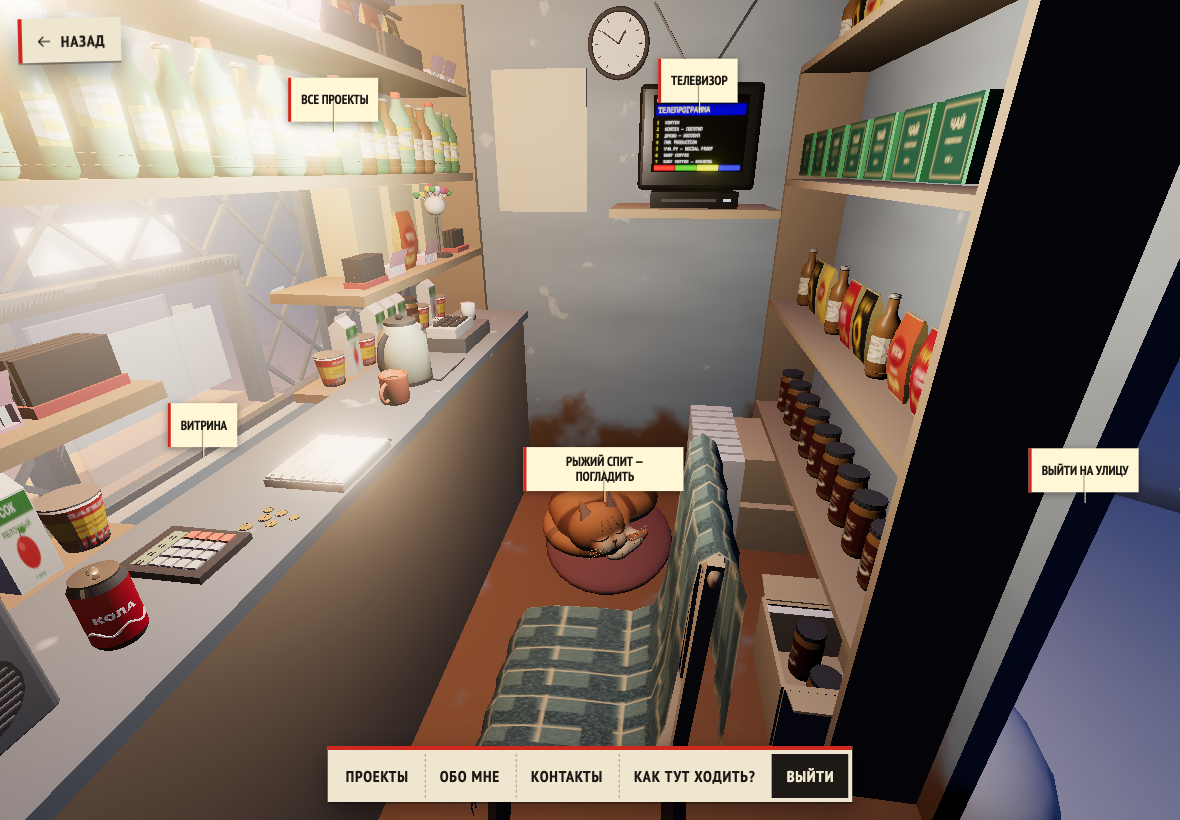
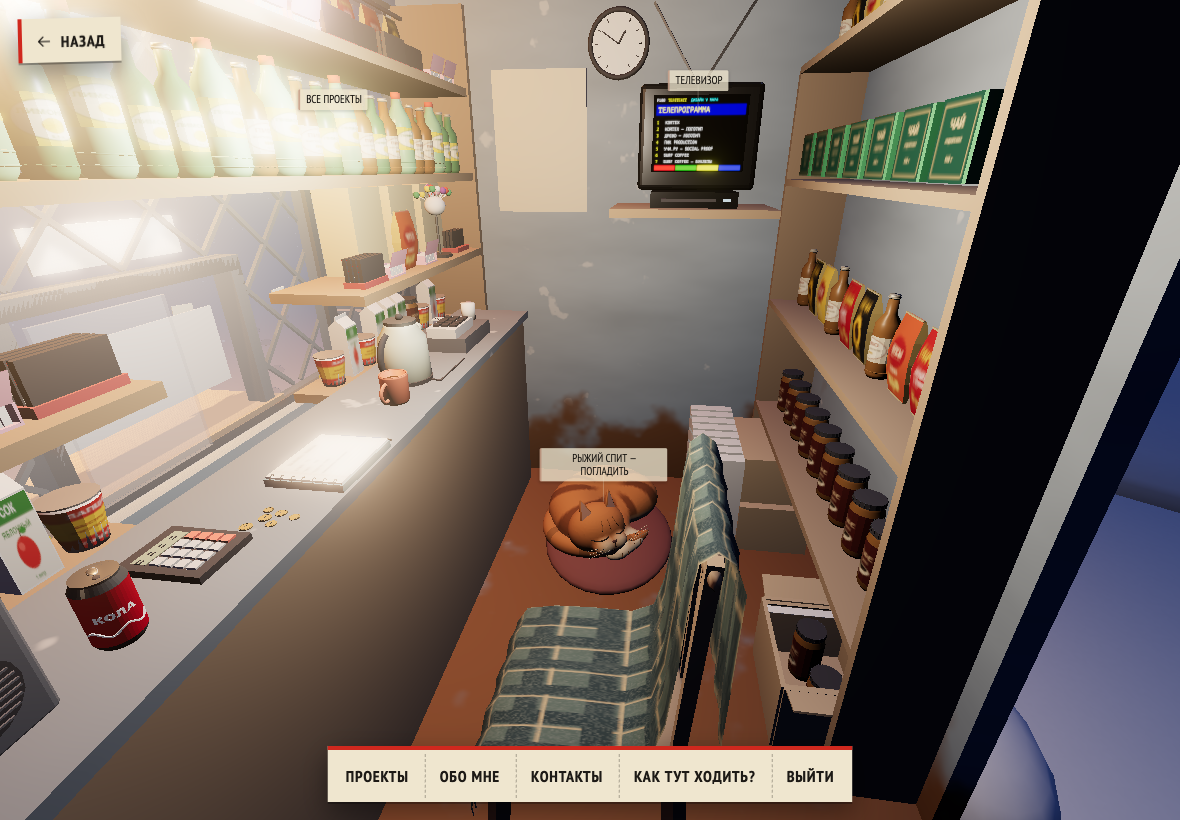
fix: make touch labels quieter and stable during gestures

diff --git a/assets/js/kiosk/scene.js b/assets/js/kiosk/scene.js
@@ -1,7 +1,7 @@
 import * as THREE from 'three';
 import { OrbitControls } from 'three/addons/controls/OrbitControls.js';
 import { GLTFLoader } from 'three/addons/loaders/GLTFLoader.js';
-import { TOUCH_LABEL_QUERY, placeLabels } from './touch-labels.js';
+import { TOUCH_LABEL_QUERY, placeLabels, selectLabels } from './touch-labels.js';
 import { RACK_FACES } from './discs.js';
 import { coverDescriptor, drawCover } from './covers.js';
 import { lookDirection, turnLook } from './look.js';
@@ -94,7 +94,7 @@ export async function createKioskScene({
   container.appendChild(screenLayer);
 
   const touchLabels = document.createElement('div');
-  touchLabels.className = 'kiosk-touch-labels';
+  touchLabels.className = 'kiosk-touch-labels is-moving';
   touchLabels.setAttribute('role', 'group');
   touchLabels.setAttribute('aria-label', 'Объекты ларька');
   touchLabels.hidden = true;
@@ -103,6 +103,8 @@ export async function createKioskScene({
   let labelEntries = [];
   let labelStamp = '';
   let labelCheckAt = 0;
+  let labelPose = '';
+  let labelSettledAt = 0;
   const refreshLabels = () => { labelStamp = ''; labelCheckAt = 0; };
   touchInput.addEventListener('change', refreshLabels);
   document.fonts.ready.then(refreshLabels);
@@ -116,7 +118,9 @@ export async function createKioskScene({
       button.className = 'kiosk-touch-label';
       button.dataset.action = 'kiosk-pick';
       button.dataset.node = entry.node;
-      button.textContent = entry.label;
+      const caption = document.createElement('span');
+      caption.textContent = entry.label;
+      button.appendChild(caption);
       button.hidden = true;
       touchLabels.appendChild(button);
       const bounds = new THREE.Box3().setFromObject(object);
@@ -130,7 +134,7 @@ export async function createKioskScene({
           samples.push(point);
         }
       }
-      return [{ ...entry, object, button, samples: samples.map(point => object.worldToLocal(point)) }];
+      return [{ ...entry, object, button, caption, samples: samples.map(point => object.worldToLocal(point)) }];
     });
     refreshLabels();
   }
@@ -381,12 +385,28 @@ export async function createKioskScene({
     const hidden = !touchInput.matches || Boolean(flight) || Boolean(screens[current])
       || Boolean(document.querySelector('.screen-flat, #contact-card, .kiosk-note'));
     touchLabels.hidden = hidden;
-    if (hidden || now < labelCheckAt) return;
-    labelCheckAt = now + 120;
+    if (hidden) {
+      labelPose = '';
+      touchLabels.classList.add('is-moving');
+      return;
+    }
     const stamp = [current, ...camera.position.toArray(), ...camera.quaternion.toArray(), camera.fov,
       canvas.clientWidth, canvas.clientHeight, rack?.rotation.y]
-      .map(value => typeof value === 'number' ? value.toFixed(3) : value).join(',');
-    if (stamp === labelStamp) return;
+      .map(value => typeof value === 'number' ? value.toFixed(2) : value).join(',');
+    // Keep labels still instead of chasing the camera and hopping between
+    // alternate anchors. Fade back in once the gesture/damping has settled.
+    if (stamp !== labelPose || down) {
+      labelPose = stamp;
+      labelSettledAt = now + 260;
+      touchLabels.classList.add('is-moving');
+      return;
+    }
+    if (now < labelSettledAt || now < labelCheckAt) return;
+    labelCheckAt = now + 120;
+    if (stamp === labelStamp) {
+      touchLabels.classList.remove('is-moving');
+      return;
+    }
     labelStamp = stamp;
     root.updateMatrixWorld(true);
     camera.updateMatrixWorld();
@@ -415,9 +435,9 @@ export async function createKioskScene({
         const y = (1 - labelPoint.y) * rect.height / 2;
         const picked = pick(rect.left + x, rect.top + y);
         if (picked !== entry.node && !(entry.node === 'hs_showcase' && picked?.startsWith('slot_'))) continue;
-        entry.button.textContent = /^hs_(backdoor|doorway)$/.test(entry.node) && current === 'inside'
+        entry.caption.textContent = /^hs_(backdoor|doorway)$/.test(entry.node) && current === 'inside'
           ? 'Выйти на улицу' : entry.label;
-        // Measure without flashing: the layer is hidden until the first layout.
+        // Measure in the same synchronous pass, before the browser paints.
         entry.button.hidden = false;
         candidates.push({ ...entry, x, y, width: entry.button.offsetWidth, height: entry.button.offsetHeight });
         entry.button.hidden = true;
@@ -425,7 +445,8 @@ export async function createKioskScene({
         break;
       }
     }
-    const placed = placeLabels(candidates, { width: rect.width, bottom: footerTop - rect.top - 8 });
+    const selected = selectLabels(candidates, { width: rect.width, height: rect.height, preset: current });
+    const placed = placeLabels(selected, { width: rect.width, bottom: footerTop - rect.top - 8 });
     for (const entry of placed) {
       const { button, x, y, anchorX, anchorY, width, height } = entry;
       button.style.transform = `translate(${x}px, ${y}px)`;
@@ -435,6 +456,7 @@ export async function createKioskScene({
       button.style.setProperty('--stem-angle', `${Math.atan2(dy, dx)}rad`);
       button.hidden = false;
     }
+    touchLabels.classList.remove('is-moving');
   }
 
   let movingDisc = null;

diff --git a/scripts/kiosk/check-touch-labels-browser.js b/scripts/kiosk/check-touch-labels-browser.js
@@ -5,6 +5,11 @@ async page => {
   const output = '/Users/mar/Documents/ChatGPT/des/missing-mar-portfolio/docs/superpowers/qa/kiosk-touch-labels';
   const wait = async p => {
     await p.waitForFunction(() => { window.__kiosk?.frame(); return window.__kiosk && !window.__kiosk.inFlight; }, { timeout: 60000 });
+    if(await p.evaluate(()=>matchMedia('(hover: none), (any-pointer: coarse)').matches)
+      && !(await p.locator('.kiosk-touch-labels').getAttribute('hidden'))
+      && await p.locator('.kiosk-touch-labels').isVisible()) {
+      await p.waitForFunction(()=>!document.querySelector('.kiosk-touch-labels').classList.contains('is-moving'));
+    }
     await p.waitForTimeout(200);
   };
   for (const device of [
@@ -33,19 +38,17 @@ async page => {
         results.push({device:device.name,labels:names,hover:await p.locator('#kiosk-label').innerText()});
         continue;
       }
-      for (const name of ['Витрина','Контакты','Обо мне','Прайс','Все проекты']) {
-        if (!names.includes(name)) throw new Error(`Missing label: ${name}`);
-      }
+      if (!names.length || names.length > (device.width <= 600 ? 2 : 3)) throw new Error('Too many labels');
+      if (!names.includes('Все проекты')) throw new Error('Missing main project action');
       const rects = await labels.evaluateAll(es=>es.map(e=>{const r=e.getBoundingClientRect();return {node:e.dataset.node,x:r.x,y:r.y,w:r.width,h:r.height};}));
       for(const [i,a] of rects.entries()) {
         if(a.h<44 || a.x<0 || a.x+a.w>device.width) throw new Error('Invalid touch target');
         for(const b of rects.slice(i+1)) if(a.x<b.x+b.w && a.x+a.w>b.x && a.y<b.y+b.h && a.y+a.h>b.y) throw new Error('Labels overlap');
       }
       await p.screenshot({path:`${output}/${device.name}.png`});
-      await p.locator('.kiosk-touch-label[data-node="hs_flyer"]').tap();
+      await p.getByRole('navigation',{name:'Помощь по ларьку'}).getByRole('button',{name:'Контакты',exact:true}).tap();
       await wait(p);
-      await p.waitForFunction(()=>location.hash==='#contact');
-      if(await labels.count()) throw new Error('Labels remain over a contact page');
+      if(await p.locator('.kiosk-touch-labels').isVisible()) throw new Error('Labels remain over a contact card');
       await p.keyboard.press('Escape');await wait(p);
       await p.locator('.kiosk-touch-label[data-node="hs_rack"]').tap();await wait(p);
       await p.waitForFunction(()=>window.__kiosk.current==='rack');
@@ -54,14 +57,22 @@ async page => {
       await p.screenshot({path:`${output}/${device.name}-rack.png`});
       await p.locator('.kiosk-touch-label[data-node^="disc_"]:visible').first().tap();await wait(p);
       await p.waitForFunction(()=>location.hash.startsWith('#project/'));
-      if(await labels.count()) throw new Error('Labels remain over a project page');
+      if(await p.locator('.kiosk-touch-labels').isVisible()) throw new Error('Labels remain over a project page');
       await p.goto('http://localhost:5173/missing-mar-portfolio/');await wait(p);
       await p.getByRole('navigation',{name:'Помощь по ларьку'}).getByRole('button',{name:'Внутрь',exact:true}).tap();await wait(p);
       await p.waitForFunction(()=>window.__kiosk.current==='inside');
       const inside=await labels.allTextContents();
       if(!inside.length) throw new Error('No labels inside');
       await p.screenshot({path:`${output}/${device.name}-inside.png`});
-      results.push({device:device.name,labels:names,rack:projects,inside,contactTap:true,projectTap:true});
+      // Labels stay fixed and fade away for an actual camera gesture.
+      await p.mouse.move(device.width*0.5, device.height*0.45);
+      await p.mouse.down();
+      await p.mouse.move(device.width*0.7, device.height*0.45,{steps:12});
+      await p.evaluate(()=>window.__kiosk.frame());
+      if(!await p.locator('.kiosk-touch-labels').evaluate(e=>e.classList.contains('is-moving'))) throw new Error('Labels chase a moving camera');
+      await p.mouse.up();await wait(p);
+      if(await labels.count() > (device.width <= 600 ? 2 : 3)) throw new Error('Too many labels after gesture');
+      results.push({device:device.name,labels:names,rack:projects,inside,contactTap:true,projectTap:true,gestureFade:true});
     } finally { await context.close(); }
   }
   if(errors.length) throw new Error(errors.join('\n'));

diff --git a/assets/css/kiosk.css b/assets/css/kiosk.css
@@ -61,6 +61,20 @@ body.is-pointing .kiosk-stage canvas {
   inset: 0;
   z-index: 5;
   pointer-events: none;
+  opacity: 1;
+  transition: opacity 180ms ease-out;
+}
+
+.kiosk-touch-labels.is-moving {
+  opacity: 0;
+}
+
+.kiosk-touch-labels.is-moving .kiosk-touch-label {
+  pointer-events: none;
+}
+
+@media (prefers-reduced-motion: reduce) {
+  .kiosk-touch-labels { transition: none; }
 }
 
 .kiosk-touch-labels[hidden],
@@ -72,22 +86,31 @@ body.is-pointing .kiosk-stage canvas {
   position: absolute;
   top: 0;
   left: 0;
-  max-width: min(160px, calc(100vw - 16px));
+  max-width: min(142px, calc(100vw - 16px));
   min-height: 44px;
   min-width: 44px;
-  padding: 7px 10px;
+  padding: 10px 7px;
   border: 0;
-  border-left: 3px solid var(--tag-red);
   color: var(--tag-ink);
-  background: #fff7d6;
+  background: transparent;
   font: var(--tag-font);
-  font-size: 13px;
+  font-size: 11px;
+  font-weight: 400;
   text-align: center;
   text-transform: uppercase;
-  box-shadow: 0 2px 8px #0006;
+  box-shadow: none;
   pointer-events: auto;
   touch-action: manipulation;
   cursor: pointer;
+}
+
+.kiosk-touch-label span {
+  display: block;
+  padding: 4px 6px;
+  border-left: 2px solid #a9695480;
+  border-radius: 2px;
+  background: rgb(239 230 207 / 78%);
+  box-shadow: 0 1px 3px #0003;
 }
 
 .kiosk-touch-label::before {
@@ -97,8 +120,7 @@ body.is-pointing .kiosk-stage canvas {
   left: 50%;
   width: var(--stem-length);
   height: 1px;
-  background: #fff7d6;
-  box-shadow: 0 1px 1px #0008;
+  background: rgb(239 230 207 / 28%);
   transform: rotate(var(--stem-angle));
   transform-origin: left center;
   pointer-events: none;

diff --git a/assets/js/kiosk/touch-labels.js b/assets/js/kiosk/touch-labels.js
@@ -2,6 +2,15 @@
 // than a laptop, and a tablet with a trackpad still has a touchscreen.
 export const TOUCH_LABEL_QUERY = '(hover: none), (any-pointer: coarse)';
 
+export function selectLabels(items, { width, height, preset }) {
+  const priority = node => preset === 'home'
+    ? ({ hs_rack: 0, hs_showcase: 1 }[node] ?? 2) : 0;
+  const score = item => priority(item.node) * width * height
+    + (item.x - width / 2) ** 2 + (item.y - height * 0.48) ** 2;
+  return items.filter(item => !(preset === 'rack' && item.node === 'hs_rack'))
+    .slice().sort((a, b) => score(a) - score(b)).slice(0, width <= 600 ? 2 : 3);
+}
+
 export function placeLabels(items, { width, bottom, margin = 8, gap = 6 }) {
   const placed = [];
   for (const item of items) {

diff --git a/docs/superpowers/qa/kiosk-touch-labels/README.md b/docs/superpowers/qa/kiosk-touch-labels/README.md
@@ -1,9 +1,9 @@
 # Touch labels
 
-Permanent, tappable paper labels use `(hover: none), (any-pointer: coarse)` so phones, tablets and tablets with trackpads do not need mouse hover. Labels follow visible scene objects, respect occlusion and the current preset, and avoid overlapping one another or the footer. Individual project labels appear at the rack/showcase; room details appear inside. The away note retains its physical paper sign without an extra label covering the fascia. Reading pages, the contact card, notes and camera transitions hide the scene labels. Desktop mouse tooltips remain.
+Compact, translucent tappable paper labels use `(hover: none), (any-pointer: coarse)` so phones, tablets and tablets with trackpads do not need mouse hover. At most two labels appear on phones (up to 600px), or three on wider touch devices. The overview prioritises projects and the showcase; close-ups prioritise central visible objects. Labels respect occlusion and the current preset, and avoid overlapping one another or the footer. Their visible chips are about 21px high, inside transparent tap areas of at least 44px. Labels remain stationary during camera gestures, fade out over 180ms and return after 260ms of camera/rack stability. Reduced-motion preferences disable the fade. Individual project labels appear at the rack/showcase; room details appear inside. The away note retains its physical paper sign without an extra label covering the fascia. Reading pages, the contact card, notes and camera transitions hide the scene labels. Desktop mouse tooltips remain.
 
-Browser checks: Chromium touch emulation at 390×844, 820×1180 and 1180×820; desktop at 1280×720. Verified initial labels without pointer movement, 44px tap targets, no overlaps, contact and project navigation by tap, hiding labels over reading pages, visible interior labels and desktop hover. Phone rotation to 844×390 recalculated placements above the footer. No page errors. Screenshots include overview, rack and interior at each touch size. This is browser emulation, not a physical iOS-device check.
+Browser checks: Chromium touch emulation at 390×844, 820×1180 and 1180×820; desktop at 1280×720. Verified initial label limits without pointer movement, 44px tap targets, no overlaps, footer contacts and project navigation by tap, hiding labels over reading pages, visible interior labels and desktop hover. Actual camera drags hide labels until settled; a separate normal-motion phone run confirmed opacity 0 during movement and 1 afterwards with a 180ms transition. Phone rotation to 844×390 recalculated placements above the footer. No page errors. Screenshots include overview, rack and interior at each touch size. This is browser emulation, not a physical iOS-device check.
 
 Repeat with `scripts/kiosk/check-touch-labels-browser.js` through the Playwright browser tool while Vite is running.
 
-Validation: 137 JavaScript tests + 9 Python tests pass; Vite production build passes, retaining the existing 500kB chunk advisory; `git diff --check` passes. No 3D model rebuild was required.
+Validation: 139 JavaScript tests + 9 Python tests pass; Vite production build passes, retaining the existing 500kB chunk advisory; `git diff --check` passes. No 3D model rebuild was required.
